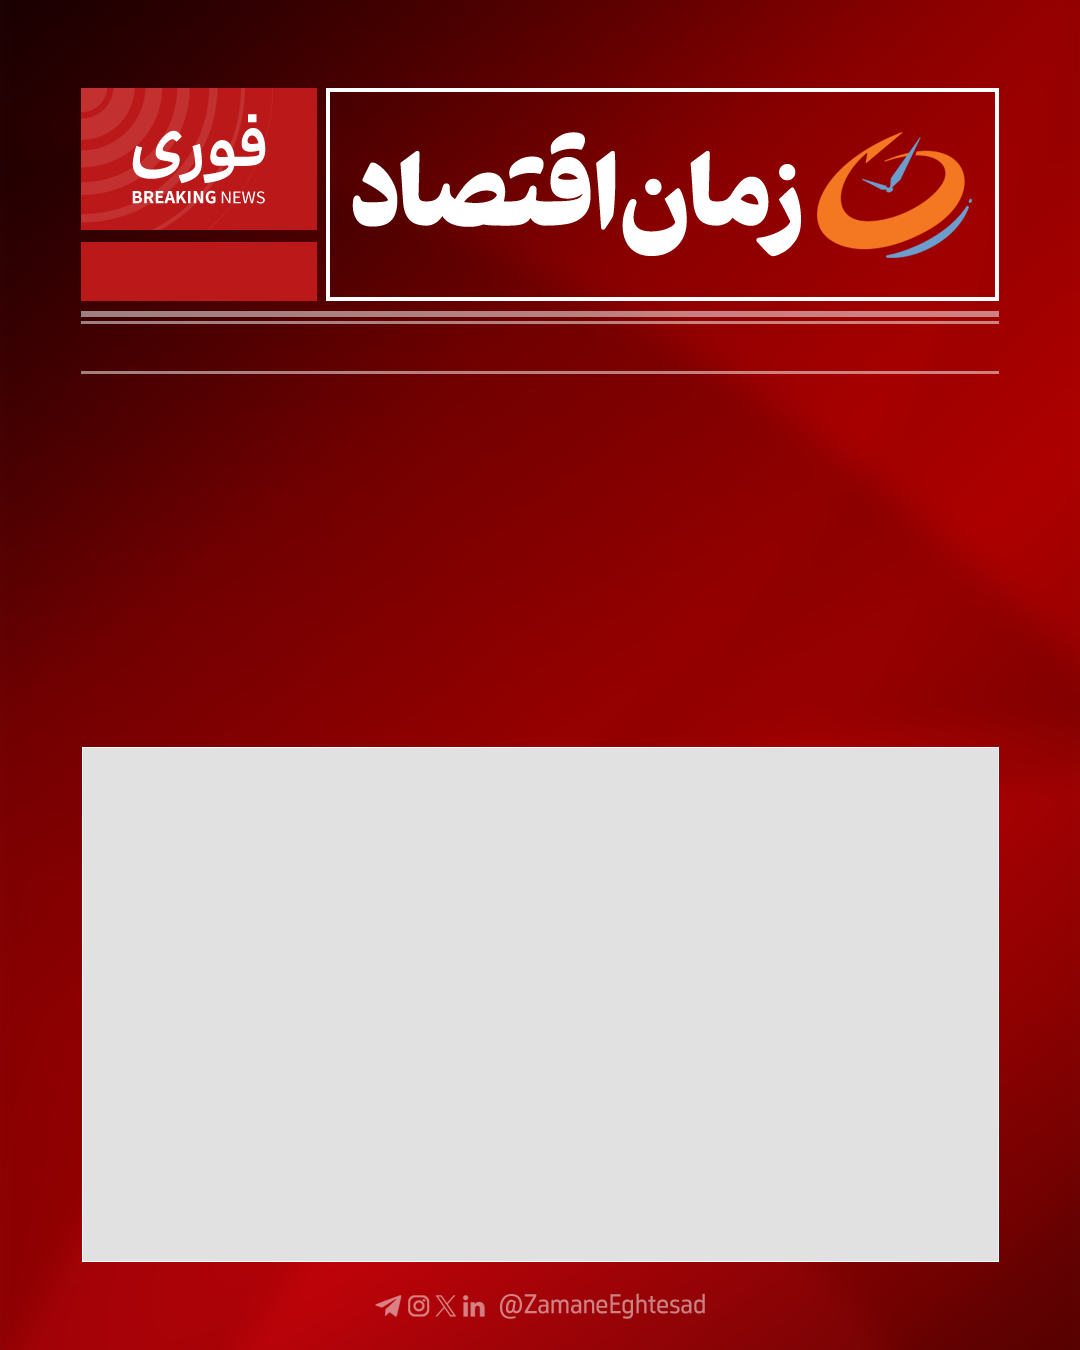
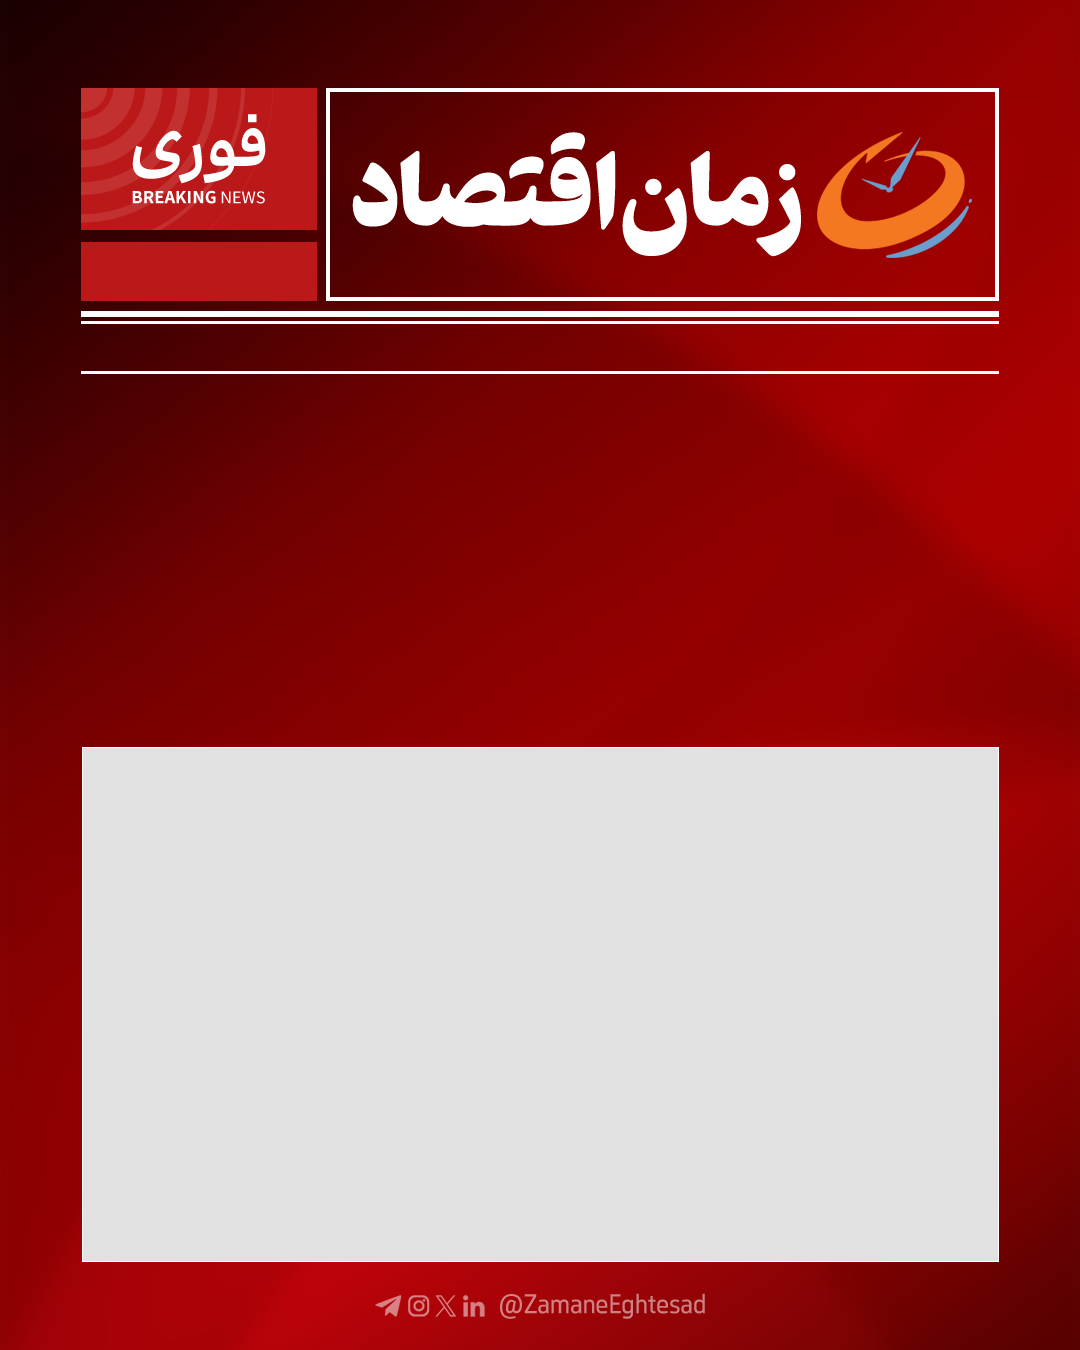
breaking news template bugs fixed

Changed region(s): [[0.0611, 0.2178, 0.9167, 0.2489]]

diff --git a/src/craft/date_util.py b/src/craft/date_util.py
@@ -3,6 +3,7 @@
 from datetime import datetime, timedelta
 from typing import Optional
 from convertdate import persian, islamic
+from zoneinfo import ZoneInfo
 
 
 # Helper: Convert Western digits in a string to Farsi numerals
@@ -226,16 +227,16 @@ def arabic(
             m_str = str(i_month)
             if language.lower() == "farsi":
                 m_str = to_farsi_numerals(m_str)
-            elif language.lower() == "arabic":          
-                m_str = to_arabic_numerals(m_str)      
+            elif language.lower() == "arabic":
+                m_str = to_arabic_numerals(m_str)
             components.append(m_str)
 
     if year:
         year_str = str(i_year)
         if language.lower() == "farsi":
             year_str = to_farsi_numerals(year_str)
-        elif language.lower() == "arabic":          # NEW
-            year_str = to_arabic_numerals(year_str) # NEW
+        elif language.lower() == "arabic":  # NEW
+            year_str = to_arabic_numerals(year_str)  # NEW
         components.append(year_str)
     return separator.join(components)
 
@@ -323,34 +324,51 @@ def clock_time(
     minutes_into_future: int = 0,
     seconds_into_future: int = 0,
     separator: str = ":",
+    timezone: str = "Asia/Tehran",  # ← NEW  (Iran by default)
     **kwargs,
 ) -> str:
     """
-    Returns a formatted clock time string with options to include hours, minutes, and seconds.
-    It also supports an optional time offset.
+    Returns a formatted clock-time string, with optional offsets, digit-set
+    conversion, **and timezone awareness**.
 
-    If language is "farsi", the resulting digits are converted to Farsi numerals.
+    • `timezone` – IANA name (e.g. 'Europe/Berlin').
+      Default 'Asia/Tehran'.
+    • If the supplied `date` is naïve, it is assumed to be in `timezone`.
+      If it is timezone-aware, it is converted to `timezone`.
     """
+    tz = ZoneInfo(timezone)
+
+    # 1⃣  Get a timezone-aware base datetime
     if date is None:
-        date = datetime.now()
-    # Apply the time offset
+        date = datetime.now(tz)
+    else:
+        if date.tzinfo is None:
+            date = date.replace(tzinfo=tz)
+        else:
+            date = date.astimezone(tz)
+
+    # 2⃣  Apply requested offsets
     date += timedelta(
         hours=hours_into_future,
         minutes=minutes_into_future,
         seconds=seconds_into_future,
     )
 
-    components = []
+    # 3⃣  Build the time string
+    parts = []
     if show_hours:
-        components.append(f"{date.hour:02d}")
+        parts.append(f"{date.hour:02d}")
     if show_minutes:
-        components.append(f"{date.minute:02d}")
+        parts.append(f"{date.minute:02d}")
     if show_seconds:
-        components.append(f"{date.second:02d}")
+        parts.append(f"{date.second:02d}")
 
-    time_str = separator.join(components)
+    time_str = separator.join(parts)
+
+    # 4⃣  Localise digits if needed
     if language.lower() == "farsi":
         time_str = to_farsi_numerals(time_str)
+
     return time_str
 
 

diff --git a/src/craft/BreakingNews.py b/src/craft/BreakingNews.py
@@ -101,7 +101,9 @@ def create_newspaper_image(
         "time": (195, 240),
     }
     date_font_size = 25
-    date_color = (160, 128, 128)
+    # date_color = (160, 128, 128)
+    date_color = "white"
+
     # Draw date texts.
 
     draw_text_no_box(
@@ -133,7 +135,8 @@ def create_newspaper_image(
         alignment="right",
         font_size=date_font_size,
         is_rtl=DEFAULT_IS_RTL,
-        color=(209, 128, 128),
+        color=date_color,
+        # color=(209, 128, 128),
     )
     draw_text_no_box(
         draw,
@@ -151,15 +154,15 @@ def create_newspaper_image(
     base_img.convert("RGB").save(output_path, format="JPEG", quality=95)
 
 
-# if __name__ == "__main__":
-#     # Example usage in non-composed mode (function does full composition)
-#     create_newspaper_image(
-#         user_image_path="UserImages/img.png",
-#         overline_text="سوخت قاچاق در خليج فارس",
-#         main_headline_text= "ترامپ با سفر به تهران با آقاى پزشكيان ديدار مى كند",
-#         output_path="./OutPut/BreakingNews_output.png",
-#         dynamic_font_size=True
-#     )
+if __name__ == "__main__":
+    # Example usage in non-composed mode (function does full composition)
+    create_newspaper_image(
+        user_image_path="UserImages/img.png",
+        overline_text="سوخت قاچاق در خليج فارس",
+        main_headline_text= "ترامپ با سفر به تهران با آقاى پزشكيان ديدار مى كند",
+        output_path="./OutPut/BreakingNews_output.png",
+        dynamic_font_size=True
+    )
 
 if __name__ == "__main__":
     parser = argparse.ArgumentParser(
